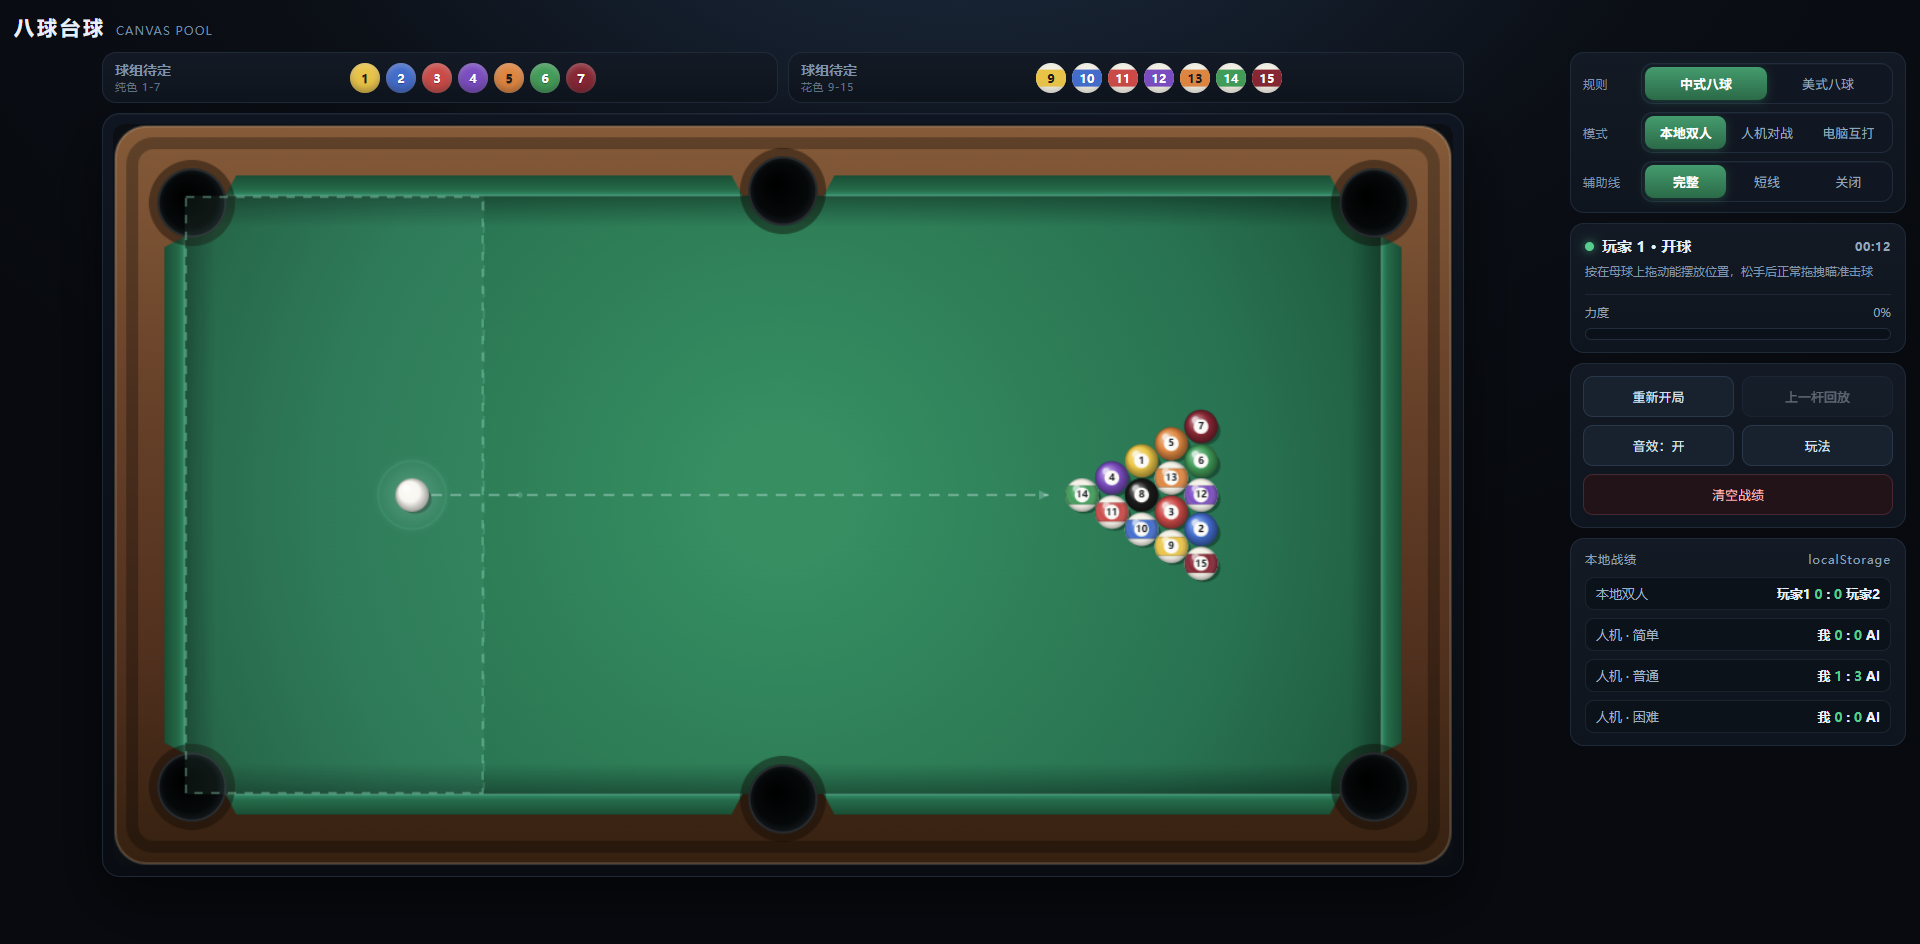
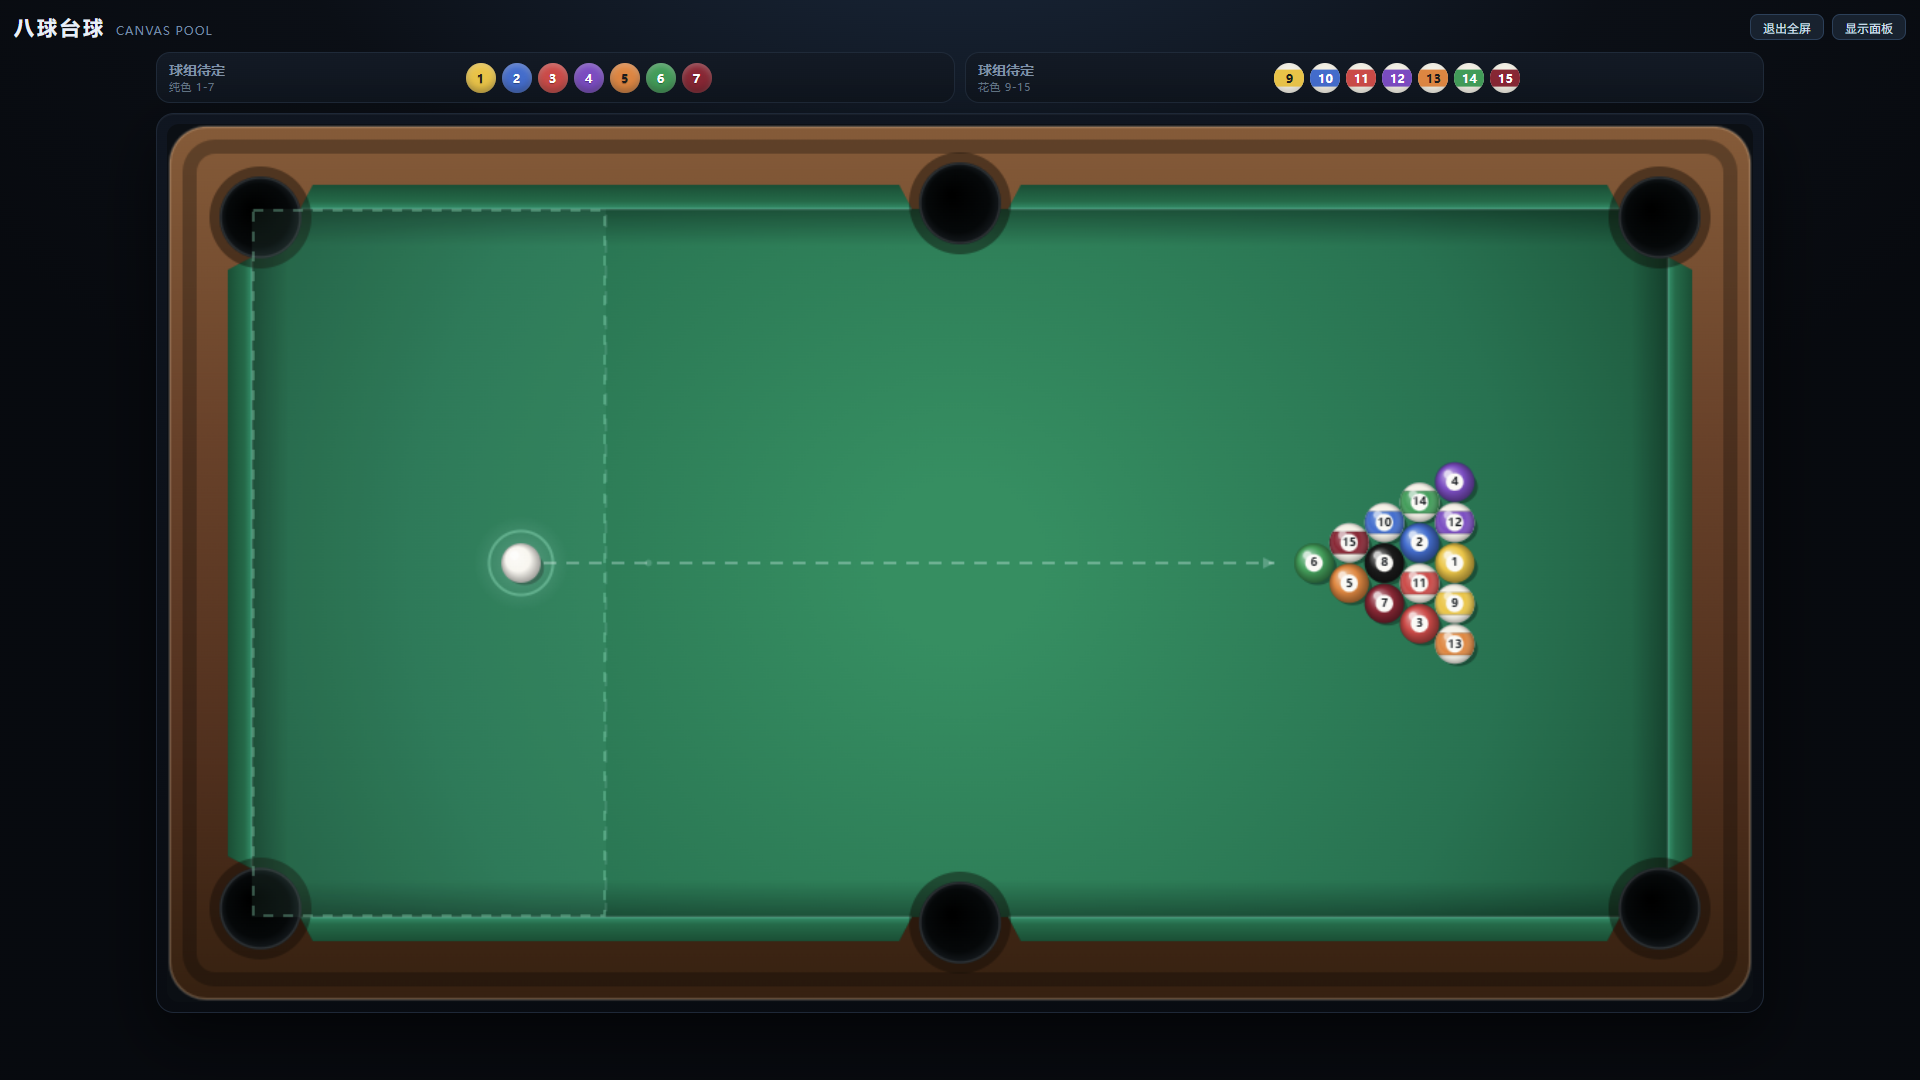
docs: 更新README文件

diff --git a/README.md b/README.md
@@ -12,9 +12,17 @@
 
 ![](./imgs/1.png)
 
+玩耍界面：
+
+![](./imgs/2.png)
+
+设置界面：
+
+![](./imgs/3.png)
+
 移动端：
 
-![](./imgs/2.jpg)
+![](./imgs/4.jpg)
 
 ## 快速开始
 
@@ -25,14 +33,14 @@
 
 ## 操作方式
 
-| 操作                 | 说明                                                                                                         |
-| -------------------- | ------------------------------------------------------------------------------------------------------------ |
-| 瞄准                 | 在台面上按下并拖动，**拖拽方向与击球方向相反**（像把球杆往后拉）                                             |
+| 操作                 | 说明                                                                                                                                                                                                     |
+| -------------------- | -------------------------------------------------------------------------------------------------------------------------------------------------------------------------------------------------------- |
+| 瞄准                 | 在台面上按下并拖动，**拖拽方向与击球方向相反**（像把球杆往后拉）                                                                                                                                         |
 | 力度                 | 拖拽距离越远力度越大（约 84 逻辑像素就到满力，是原来的 1/3），右侧力度条实时显示百分比，**拖拽时母球旁也会浮出自己的百分比**（画在垂直于击球方向的一侧，手指和瞄准虚线都挡不到；贴库时自动换到空的一边） |
-| 击球                 | 松开鼠标 / 手指即出杆，所有球静止后才允许下一杆                                                              |
-| 开球摆放             | 开球时母球可在开球区内先拖动摆好：**按住母球本体拖动**（按在球上才算摆放），松手即完成摆放，之后正常拖拽瞄准 |
-| 手中球               | 犯规后获得手中球，按在母球上拖到合适位置松手完成摆放：中式可放全台任意空位，美式只能放回开球区               |
-| 黑八指定袋（仅美式） | 美式八球轮到自己打黑八时，点击目标袋口指定，须打进指定袋才算赢；中式八球不用选，进任意袋都算赢               |
+| 击球                 | 松开鼠标 / 手指即出杆，所有球静止后才允许下一杆                                                                                                                                                          |
+| 开球摆放             | 开球时母球可在开球区内先拖动摆好：**按住母球本体拖动**（按在球上才算摆放），松手即完成摆放，之后正常拖拽瞄准                                                                                             |
+| 手中球               | 犯规后获得手中球，按在母球上拖到合适位置松手完成摆放：中式可放全台任意空位，美式只能放回开球区                                                                                                           |
+| 黑八指定袋（仅美式） | 美式八球轮到自己打黑八时，点击目标袋口指定，须打进指定袋才算赢；中式八球不用选，进任意袋都算赢                                                                                                           |
 
 台面上的虚线只指**母球出发方向**（`完整` 档连同一处碰撞点，`短线` 档只有一小段方向，`关闭` 档不画），不做碰撞后的多段轨迹预测。
 
@@ -49,9 +57,7 @@
 
 **竖屏第一次进来会给一条轻提示**「横屏 + 全屏，打起来更顺手」（在球号条和台面之间的小横条，不弹窗、不挡台面）。这条提示**每次打开页面都会出现**，点「知道了」只关掉本次打开（转过屏后本次也不再出现），不写 `localStorage`，所以刷新回来照样能看到——新用户不会因为一次误点就再也见不到。
 
-
 **桌面端的右侧面板可以收起**：页头右上角有个「收起面板 / 显示面板」按钮，按钮状态会记在 `localStorage` 的 `eightball.panelShow.v1`，下次打开还是上次的样子（默认显示）。收起后整块面板让位给台面（1440×900 实测台面从 1036px 宽到 1261px，约 +22%）。窄屏（≤940px）下面板本来就在台面下方，按钮会自动隐藏；手机横屏用细带上的「面板」抽屉按钮。
-
 
 **全屏**：页头右上角有「全屏」按钮（手机横屏细带上那个是同一个功能，共用一套逻辑），点一下进浏览器原生全屏，按钮变成「退出全屏」，按 `Esc` 也能退。全屏后浏览器标签栏 / 地址栏 / 任务栏让出的高度会让台面跟着变大（台面宽度本来就按可视高度 `100dvh` 反算），例如 1440 宽屏上收起面板进全屏，台面能从约 1060px 长到 1261px。浏览器不支持 `requestFullscreen` 时按钮自动不显示。
 
